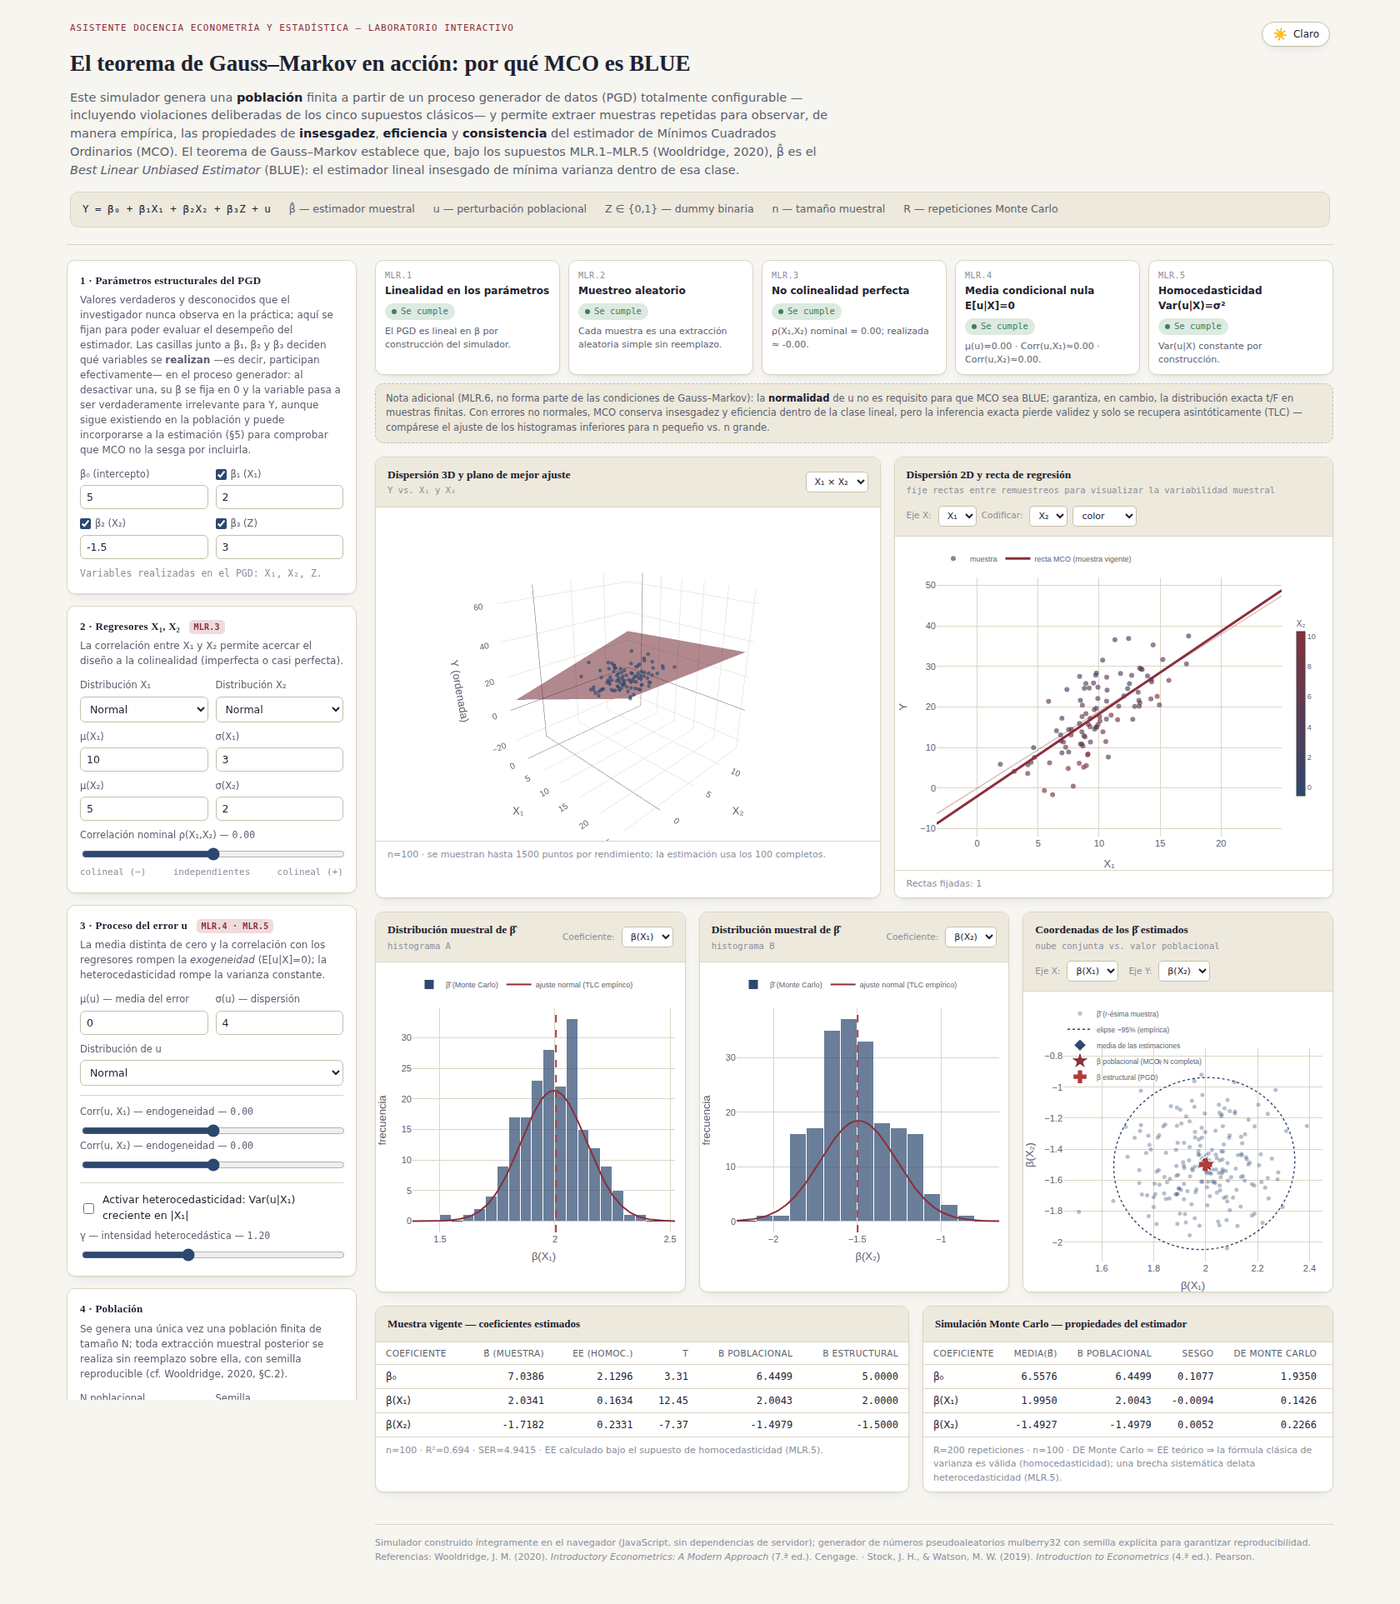
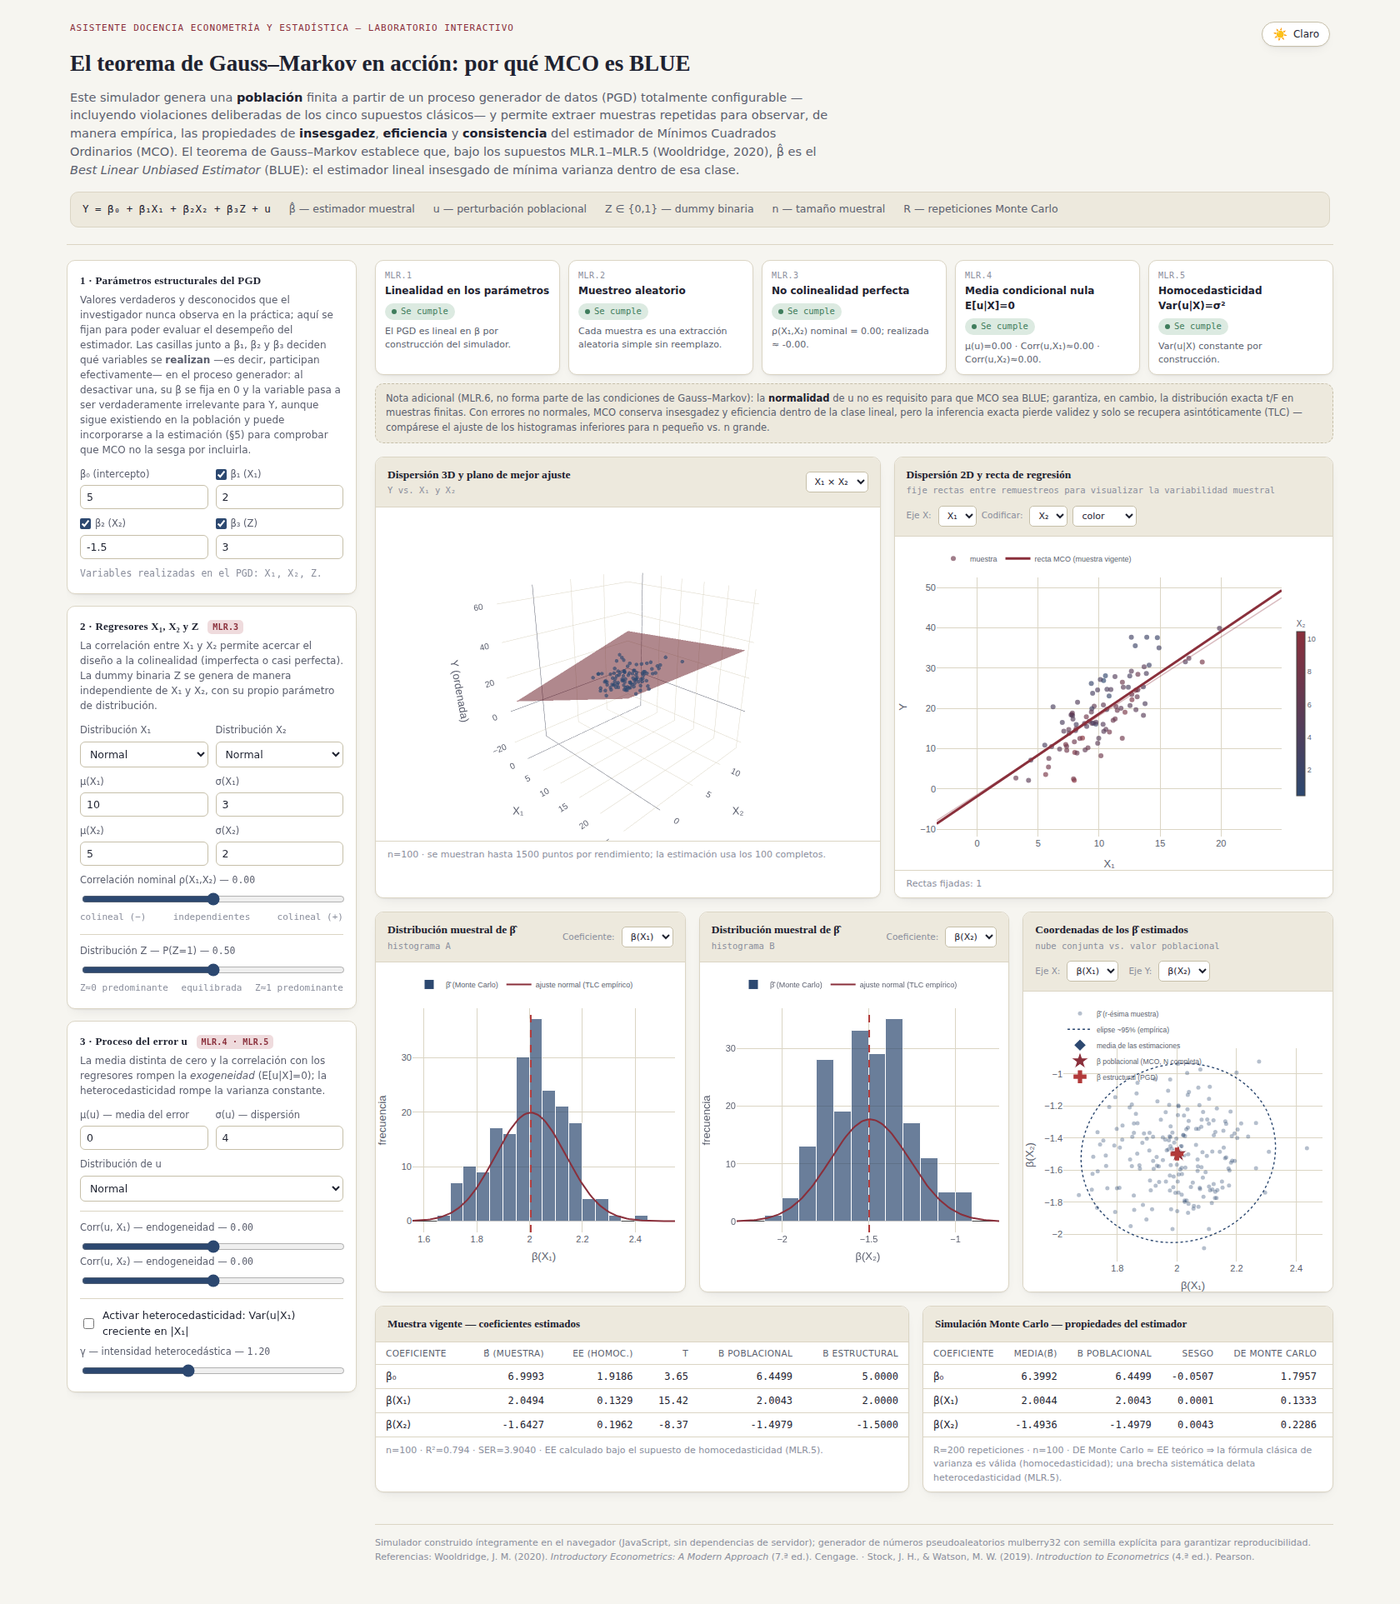
Updated version.

diff --git a/mco-como-blue.html b/mco-como-blue.html
@@ -202,7 +202,7 @@
 
   <div class="topbar">
     <div class="topbar-head">
-      <div class="eyebrow">Estadística Matemática — laboratorio interactivo</div>
+      <div class="eyebrow">Asistente Docencia Econometría y Estadística — laboratorio interactivo</div>
       <button type="button" id="themeToggle" class="theme-toggle" aria-pressed="false" title="Cambiar entre fondo claro y oscuro">
         <span class="theme-toggle-icon" aria-hidden="true">&#9728;&#65039;</span>
         <span class="theme-toggle-label">Claro</span>
@@ -249,8 +249,8 @@
       </div>
 
       <div class="card ctrl-card">
-        <h3>2 &middot; Regresores X&#8321;, X&#8322; <span class="assumption-tag">MLR.3</span></h3>
-        <p class="help">La correlación entre X&#8321; y X&#8322; permite acercar el diseño a la colinealidad (imperfecta o casi perfecta).</p>
+        <h3>2 &middot; Regresores X&#8321;, X&#8322; y Z <span class="assumption-tag">MLR.3</span></h3>
+        <p class="help">La correlación entre X&#8321; y X&#8322; permite acercar el diseño a la colinealidad (imperfecta o casi perfecta). La dummy binaria Z se genera de manera independiente de X&#8321; y X&#8322;, con su propio parámetro de distribución.</p>
         <div class="field-row">
           <div class="field"><label for="x1dist">Distribución X&#8321;</label>
             <select id="x1dist"><option value="normal">Normal</option><option value="skew">Asimétrica (no normal)</option></select>
@@ -271,6 +271,12 @@
           <label for="rhoX">Correlación nominal &#961;(X&#8321;,X&#8322;) &#8212; <span id="rhoXval" class="mono">0.00</span></label>
           <input type="range" id="rhoX" min="-0.95" max="0.95" step="0.05" value="0">
           <div class="range-readout"><span>colineal (&#8722;)</span><span>independientes</span><span>colineal (+)</span></div>
+        </div>
+        <div class="divider"></div>
+        <div class="field">
+          <label for="zProb">Distribución Z &#8212; P(Z=1) &#8212; <span id="zProbval" class="mono">0.50</span></label>
+          <input type="range" id="zProb" min="0.05" max="0.95" step="0.05" value="0.5">
+          <div class="range-readout"><span>Z&#8776;0 predominante</span><span>equilibrada</span><span>Z&#8776;1 predominante</span></div>
         </div>
       </div>
 
@@ -297,7 +303,7 @@
         <div class="divider"></div>
         <label class="checkline"><input type="checkbox" id="hetero"> Activar heterocedasticidad: Var(u|X&#8321;) creciente en |X&#8321;|</label>
         <div class="field">
-          <label for="heteroGamma">&#947; &#8212; intensidad heterocedástica &#8212; <span id="heteroGammaVal" class="mono">1.20</span></label>
+          <label for="heteroGamma">&#947; &#8212; intensidad heterocedástica &#8212; <span id="heteroGammaval" class="mono">1.20</span></label>
           <input type="range" id="heteroGamma" min="0" max="3" step="0.1" value="1.2">
         </div>
       </div>
@@ -565,6 +571,7 @@ function readConfig(){
     x2mu: +document.getElementById("x2mu").value,
     x2sigma: Math.max(0.05, +document.getElementById("x2sigma").value),
     rhoX: clamp(+document.getElementById("rhoX").value, -0.97, 0.97),
+    zProb: clamp(+document.getElementById("zProb").value, 0.02, 0.98),
     uMu: +document.getElementById("uMu").value,
     uSigma: Math.max(0.05, +document.getElementById("uSigma").value),
     uDist: document.getElementById("uDist").value,
@@ -602,7 +609,7 @@ function generatePopulation(){
     const rem = Math.max(1e-6, 1 - ru1*ru1 - ru2*ru2);
     const zu = ru1*za + ru2*zb + Math.sqrt(rem)*zc;
     Uraw[i] = errorFamilyTransform(zu, cfg.uDist);
-    Z[i] = rng() < 0.5 ? 0 : 1;
+    Z[i] = rng() < (1 - cfg.zProb) ? 0 : 1;
   }
 
   const X1 = rescale(X1raw, cfg.x1mu, cfg.x1sigma);
@@ -1360,7 +1367,7 @@ function renderPopStatus(){
   const irrelevant = [["X₁",b[1]],["X₂",b[2]],["Z",b[3]]].filter(([,v])=>v===0).map(([l])=>l);
   const realizedTxt = `variables realizadas en el PGD: ${realized.length?realized.join(", "):"ninguna"}${irrelevant.length?` (irrelevante(s): ${irrelevant.join(", ")})`:""}`;
   document.getElementById("popStatus").innerHTML =
-    `N=${state.pop.N.toLocaleString("es-AR")} generada · ${realizedTxt} · ρ(X₁,X₂) realizada=${fmt(s.corrX1X2,2)} · media(u)=${fmt(s.U.mean,2)} · Corr(u,X₁)=${fmt(s.corrUX1,2)} · Corr(u,X₂)=${fmt(s.corrUX2,2)}`;
+    `N=${state.pop.N.toLocaleString("es-AR")} generada · ${realizedTxt} · ρ(X₁,X₂) realizada=${fmt(s.corrX1X2,2)} · P(Z=1) realizada=${fmt(s.Z.mean,2)} · media(u)=${fmt(s.U.mean,2)} · Corr(u,X₁)=${fmt(s.corrUX1,2)} · Corr(u,X₂)=${fmt(s.corrUX2,2)}`;
 }
 function enableSamplingControls(on){
   ["newSampleBtn","runMCBtn"].forEach(id=>document.getElementById(id).disabled = !on);
@@ -1454,7 +1461,7 @@ function updatePgdActiveStatus(){
 
 function init(){
   initThemeToggle();
-  bindRangeReadout("rhoX",2); bindRangeReadout("rhoU1",2); bindRangeReadout("rhoU2",2); bindRangeReadout("heteroGamma",2);
+  bindRangeReadout("rhoX",2); bindRangeReadout("rhoU1",2); bindRangeReadout("rhoU2",2); bindRangeReadout("heteroGamma",2); bindRangeReadout("zProb",2);
   Object.keys(PGD_VAR_MAP).forEach(bindPgdVarToggle);
   updatePgdActiveStatus();
 

diff --git a/README.md b/README.md
@@ -26,7 +26,7 @@ A diferencia de una demostración puramente teórica, el simulador distingue exp
 | Panel / control | Descripción |
 |---|---|
 | **Parámetros estructurales del PGD** | β₀–β₃ configurables; casillas para decidir qué variables se *realizan* (afectan a Y) en la población — permite construir el caso complementario al sesgo por omisión: una variable genuinamente irrelevante incluida en la estimación. |
-| **Regresores X₁, X₂** | Distribución normal o asimétrica; correlación nominal entre ambos (aproxima la colinealidad, MLR.3). |
+| **Regresores X₁, X₂ y Z** | X₁ y X₂: distribución normal o asimétrica; correlación nominal entre ambos (aproxima la colinealidad, MLR.3). Z: probabilidad P(Z=1) configurable para la dummy binaria, generada de forma independiente de X₁ y X₂. |
 | **Proceso del error *u*** | Media, dispersión y distribución configurables; correlación con X₁/X₂ (endogeneidad, rompe MLR.4); interruptor de heterocedasticidad Var(u\|X₁) creciente en \|X₁\| (rompe MLR.5). |
 | **Población** | Generación única de N observaciones (por defecto 200.000) con semilla explícita (PRNG `mulberry32`) para garantizar reproducibilidad. |
 | **Diseño muestral** | Tamaño de muestra n ∈ {10, 50, 100, 1000, 10000}; selección de regresores a incluir en el modelo estimado; número de repeticiones Monte Carlo R. |
@@ -78,7 +78,7 @@ Wooldridge, J. M. (2020). *Introductory Econometrics: A Modern Approach* (7.ª e
 
 ## Autoría
 
-Federico Contiggiani — Universidad Nacional de Río Negro (UNRN) · Instituto de Investigaciones en Políticas Públicas y Gobierno (IIPPyG) · CONICET.
+Federico Contiggiani — Universidad Nacional de Río Negro (UNRN)
 
 ## Licencia
 
